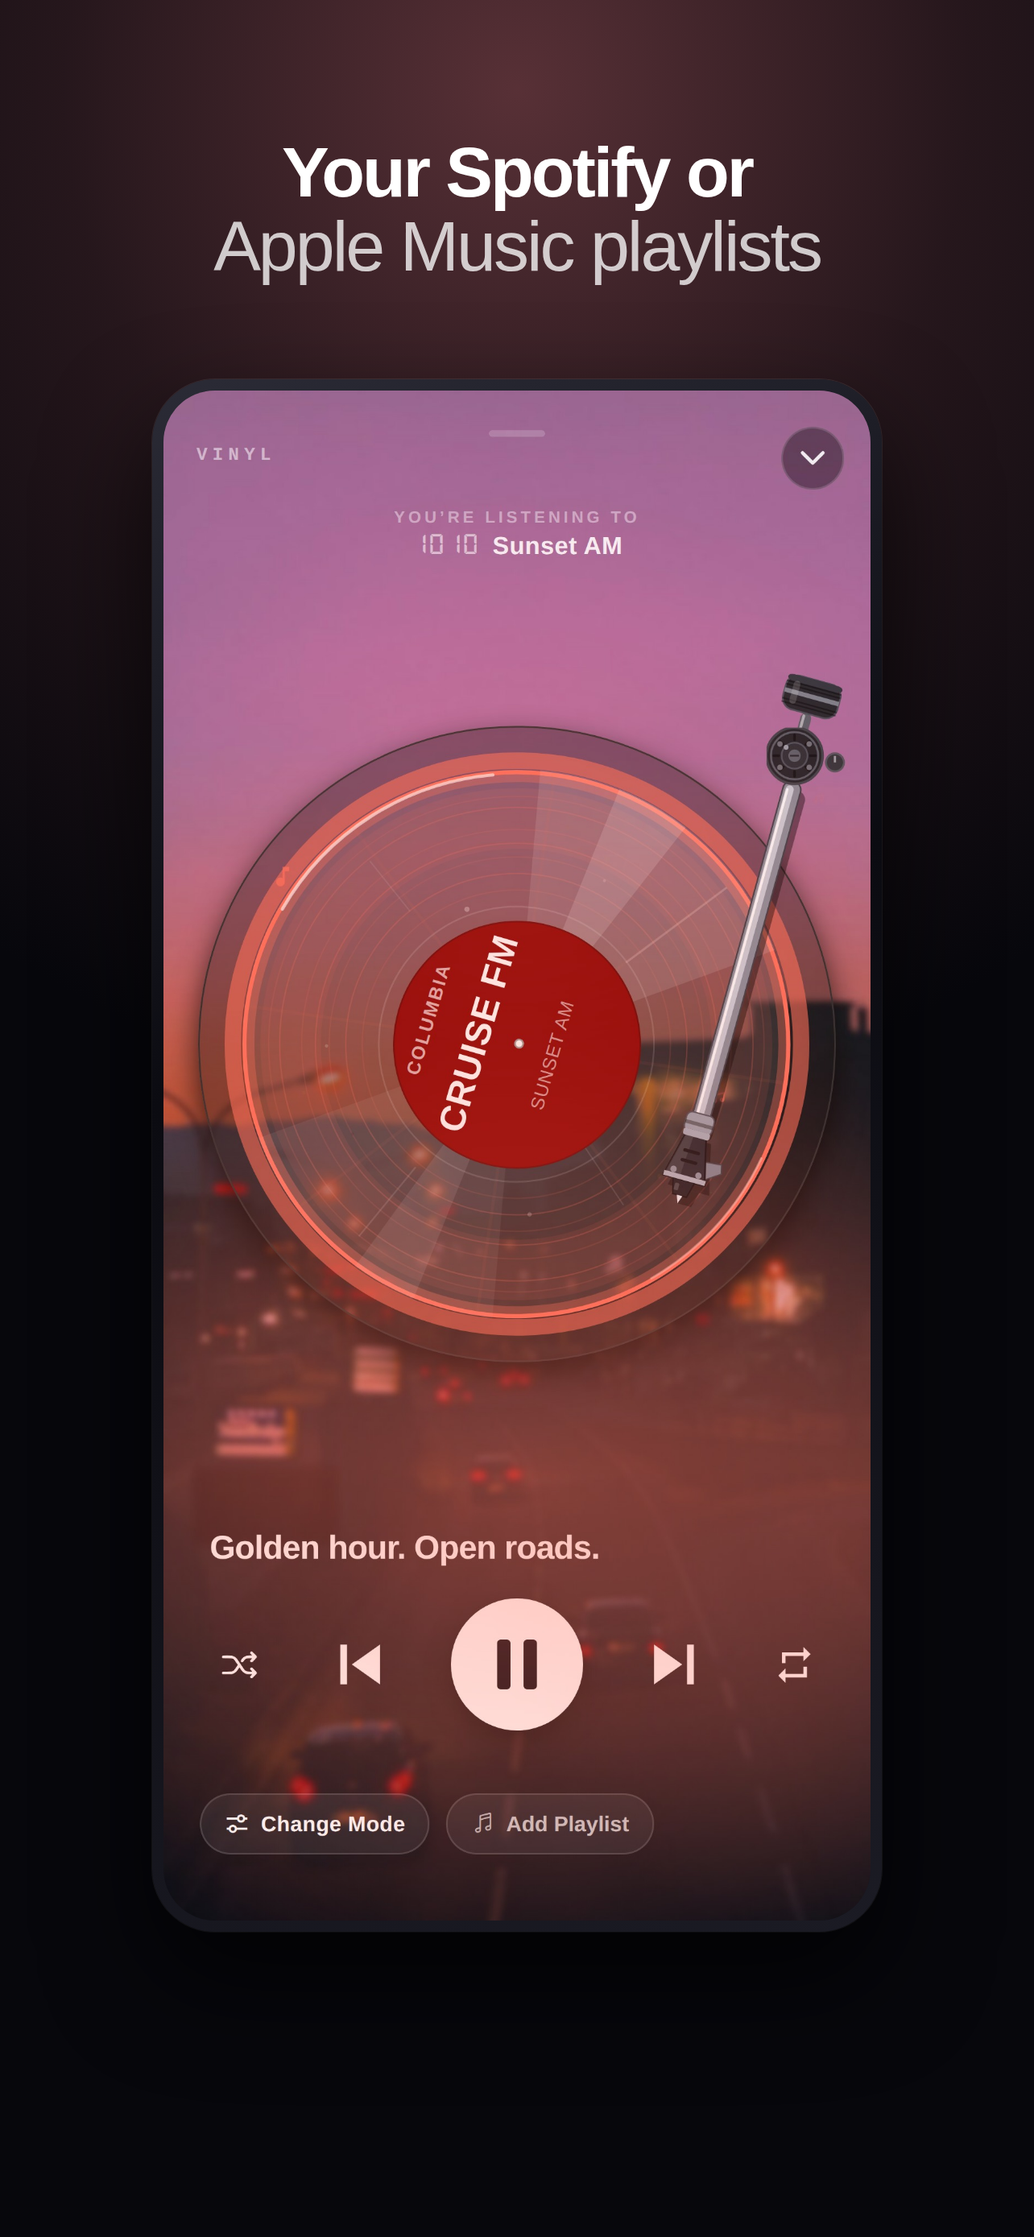
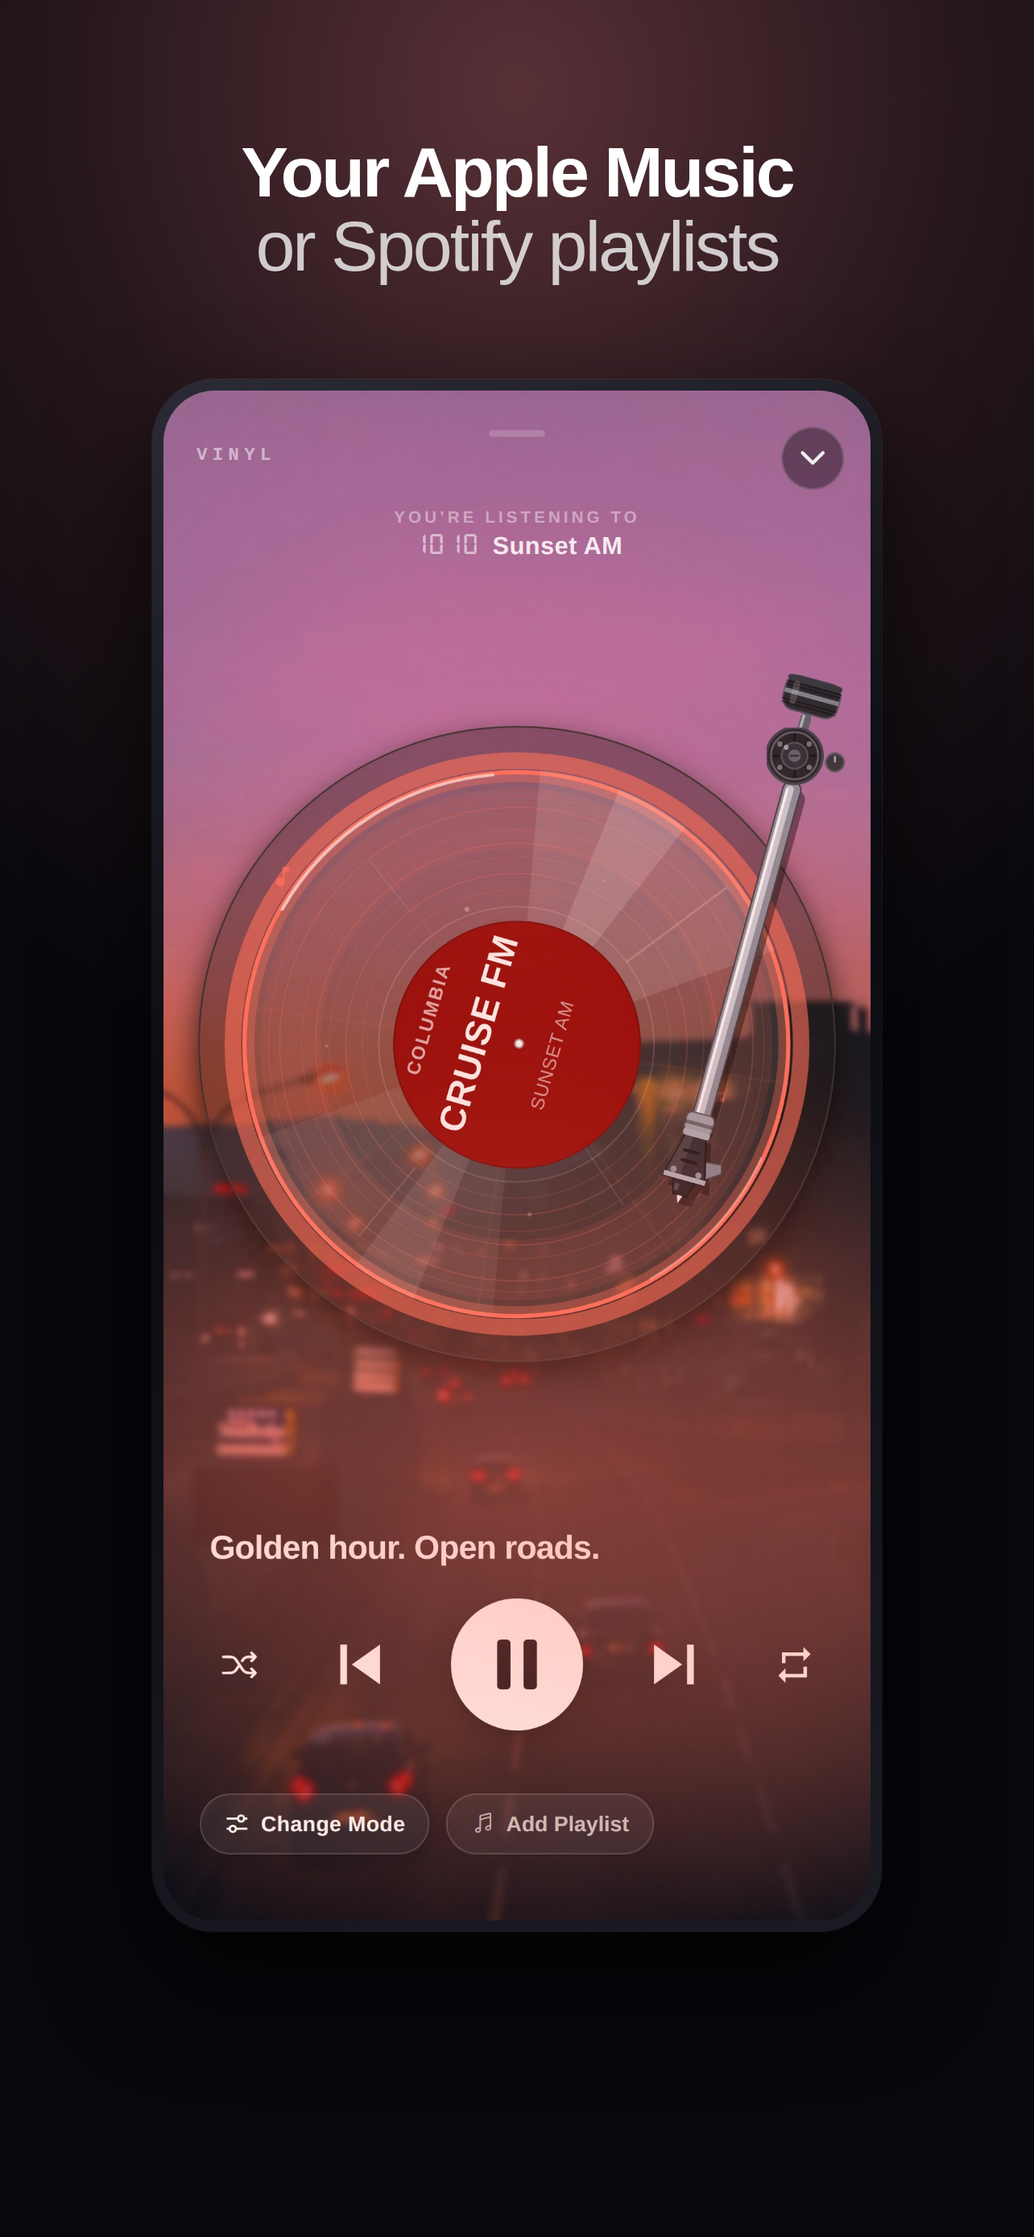
Listing: Apple-first description, and a share-card slide that shows the Y2K one
The "your own photo" slide was distorted — the temporary stub that stands in
for the photo picker declared 1600x1067 for a file that is really 1080x1620,
and the framing sheet lays the image out at those numbers under contentFit
"fill". Re-shot at the true size.

The share-card slide now shows two cards, Y2K in front and Ticket tilted
behind, so it reads as "styles" without needing the word. Both are rendered
from the shipping components rather than photographed on a phone: the old raw
screenshot was the share sheet, which reads as a menu, and it printed
cruisefm.app — a domain that was never registered.

Description leads with Apple Music. This is an iOS-only app and Spotify's
developer tier caps full in-app control at five accounts, so opening with
Spotify was selling the thing most readers cannot have. Spotify is still named
in the same places, one step later.

Two small fixes in the Y2K card itself while rendering it: with no album art it
falls back to the station's own photograph instead of a flat tinted square, and
the scrub bar sits at zero rather than a decorative 42% beside two 0:00s.

Changed region(s): [[0.2181, 0.0619, 0.81, 0.1238]]

diff --git a/src/components/ShareCardStyles.tsx b/src/components/ShareCardStyles.tsx
@@ -837,7 +837,10 @@ function Y2KStyle(p: StyleProps) {
   // The two seven-segment wells are 168 wide with a 52 margin, so the
   // trough starts clear of them on both sides.
   const barX = WX + 196, barW = WW - 196 - 196;
-  const pct = track?.durationMs ? Math.min(1, (track.progressMs ?? 0) / track.durationMs) : 0.42;
+  // Zero when there is no track, not a decorative 0.42 — the times either side
+  // read 0:00 in that case, and a bar sitting 42% along beside them says two
+  // different things at once.
+  const pct = track?.durationMs ? Math.min(1, (track.progressMs ?? 0) / track.durationMs) : 0;
 
   const btn = (i: number) => panelX + i * 76;
 
@@ -867,7 +870,25 @@ function Y2KStyle(p: StyleProps) {
       <Bevel x={artX - 10} y={artY - 10} w={ART + 20} h={ART + 20} sunken face="#6b6b6b" e={4} />
       {d.art
         ? <SvgImage x={artX} y={artY} width={ART} height={ART} href={{ uri: d.art }} preserveAspectRatio="xMidYMid slice" />
-        : <Rect x={artX} y={artY} width={ART} height={ART} fill={mixHex(d.eq[1], '#20202a', 0.55)} />}
+        : (
+          /* No cover — companion listeners have no track at all, and a cover
+             can be a moment late even when there is one. A flat tinted square
+             is the one thing in this well that reads as a bug rather than a
+             design, so it falls back to the STATION'S OWN PHOTOGRAPH, which is
+             what the card is about anyway. Under a wash, or a bright picture
+             fights the grey chrome around it. Custom stations may still have
+             no picture, and those keep the tint. */
+          <>
+            <Rect x={artX} y={artY} width={ART} height={ART} fill={mixHex(d.eq[1], '#20202a', 0.55)} />
+            {!!d.backdrop && (
+              <>
+                <SvgImage x={artX} y={artY} width={ART} height={ART} href={d.backdrop as string}
+                  preserveAspectRatio="xMidYMid slice" />
+                <Rect x={artX} y={artY} width={ART} height={ART} fill="#0b0b12" opacity={0.22} />
+              </>
+            )}
+          </>
+        )}
 
       {/* ── the disc ── */}
       {(() => {

diff --git a/scripts/marketing/tints.py b/scripts/marketing/tints.py
@@ -5,8 +5,14 @@ import colorsys, glob, os, json
 
 SHOTS = 'screenshots-appstore'
 out = {}
-for p in sorted(glob.glob(f'{SHOTS}/*.jpg')):
-    im = Image.open(p).convert('RGB').resize((160, 346))
+# The .png entries are the rendered share cards rather than device screenshots,
+# and the rule is the same: the surround is sampled from whatever the slide
+# actually shows. Resize to each file's own shape — squashing a near-square
+# card into a phone's aspect would not change the average, but it would make
+# the next person doubt the numbers.
+for p in sorted(glob.glob(f'{SHOTS}/*.jpg') + glob.glob(f'{SHOTS}/*.png')):
+    src = Image.open(p).convert('RGB')
+    im = src.resize((160, max(1, round(160 * src.height / src.width))))
     wr = wg = wb = wt = 0.0
     for r, g, b in im.getdata():
         h, l, s = colorsys.rgb_to_hls(r / 255, g / 255, b / 255)

diff --git a/AGENTS.md b/AGENTS.md
@@ -309,6 +309,7 @@ The owner does not code — describe changes in plain English, Claude implements
 - NEXT (post-launch): Apple Music support via MusicKit (platform concept already in code); Google ID verification clears → upload build, £1.99 product in Play Console, swap test_ key for goog_ key → closed test (12 testers/14 days); iOS home-screen widgets (owner asked 2026-07-23) — order: Start Drive widget (station-art tile deep-linking into last station/mode) → drive-stats/streak tile → "Tonight's pick" card → Live Activity during drives (lock screen/Dynamic Island, genuinely live). All native (Swift via config plugin, e.g. @bacons/apple-targets), EAS cloud-buildable without a Mac, fresh build per iteration (no OTA). NOTE: live Spotify now-playing in a widget is NOT feasible (no Apple Music-style access + ~15min refresh) — don't promise it
 - DONE 2026-07-26 (ship from the phone): `.github/workflows/ota-update.yml` — a MANUAL GitHub Actions button (`workflow_dispatch` only, never on push, so the owner still decides what ships during launch) that runs `eas update` for a chosen channel. Owner presses it from the GitHub mobile app / browser, no PC needed. REQUIRES a repo secret `EXPO_TOKEN` (expo.dev → Account settings → Access tokens → robot/personal token). Before publishing it asserts EXPO_PUBLIC_SPOTIFY_CLIENT_ID/SECRET exist in that EAS environment — `.env` is gitignored so CI has no local copy, and a bundle published without them would silently break Spotify sign-in for everyone on the channel. Workflow files are NOT a fingerprint source, so adding this did not disturb OTA. STILL PENDING (post-launch): making it fire automatically on every push.
 - APP STORE SCREENSHOTS ARE NOW MARKETING SLIDES 2026-08-08 (owner, after seeing TinySong/Hayu listings: "how we get the App Store photos like these for free"): the listing used raw screenshots; it now uses captioned slides built here, no tool and no subscription. `scripts/marketing/build-slides.mjs` reads `screenshots-appstore/*.jpg` and writes `screenshots-marketing/*.png` at Apple's 6.5" size (1284x2778) via HTML + Chromium. THREE LAYOUTS, and the split is the owner's pick after comparing four directions side by side: slide 1 is **B** — the screenshot full-bleed with the headline over it, because the first slide has to stop a thumb and that is the biggest picture available; slides 2-9 are **A** — the phone floating on a glow, which gives the set a calmer rhythm; slide 10 is **CARD** — the share card alone, no phone. TRAP in B: the scrim must be FULLY OPAQUE down past the headline's foot (0% to 15.5%), or the app's own header ghosts through it — the first render had "Downtown FM" sitting inside the H1. TINTS ARE SAMPLED, NEVER PICKED: `scripts/marketing/tints.py` weights each screenshot's pixels by `saturation x luminance` and lands every result at one fixed lightness/saturation, so the surround belongs to its own picture but the ten slides still read as one set. Re-run it after ANY screenshot change — the stations reshoot below flipped that slide from teal to amber, which is correct because the new picture is the dial rather than the mountain. TWO THINGS THE RENDER CAUGHT: the raw share screenshot is the share SHEET (six buttons and a Cancel) and reads as a menu, so slide 10 crops the card out of it by measured pixel box (`CARD_BOX`, found by thresholding the bright block — the crop is done in CSS so the script needs no image library); and the stations screenshot was scrolled to the top, which sliced the last row against the screen's bottom edge — `scripts/marketing/stations-shot.mjs` re-shoots it at MAX scroll, which shows all ten stations, both bands and the red tuned marker, so the "Ten moods. Not ten genres." headline is proved by its own picture. `screenshots-appstore/03-stations-dial.jpg` was replaced with that reshoot. TYPEFACE IS A STAND-IN: this machine only has Liberation Sans (the free Helvetica clone). Drop a real font in and point the stack at it. NOT YET UPLOADED — these ship with version 1.2.0's listing update.
+- THE LISTING TURNS APPLE-FIRST, AND THE CARD SLIDE STOPS BEING A SCREENSHOT 2026-08-12 (listing only, no app change beyond one share-card fallback). Three things, all off the owner. (1) **DESCRIPTION IS APPLE-FIRST** — "can we change the description to focus more on Apple users". It opened "Spotify organises music by artist" and put Apple Music second throughout, which is backwards twice over: this is an iOS-only app, so every reader is already in Apple's world, and Apple Music is the platform where Cruise FM actually works for everyone — Spotify's developer tier caps full in-app control at FIVE accounts, so for almost every reader "connect Spotify" means the visual layer and nothing else. Leading with Spotify was selling the thing most people cannot have. Spotify is still named in the same three places, one step later; nothing was dropped and nothing overclaims. Same swap on the vinyl slide's caption. Promotional text refreshed for 1.3.0 — that is the ONE field editable with no review, so it is where the newest thing belongs. (2) **A STUB'S DECLARED DIMENSIONS ARE LOAD-BEARING**: the 1.3.0 "your own photo" slide shipped visibly stretched (owner: "that's stretched funny -- i wouldn't use it") because the temporary `choosePhoto` stub declared 1600x1067 for a file that is really 1080x1620. `PhotoFrameSheet` lays the image out at those numbers under `contentFit="fill"`, so the portrait photo was force-fitted into a landscape box — the harness distorted it, not the app. Re-shot with the true size. RULE: a stub that stands in for a native module must carry the real asset's real metadata, or the screenshot is testing the stub. (3) **THE SHARE-CARD SLIDE IS NOW RENDERED, NOT SHOT** (owner: "id like to have the y2k share card option displayed on the preview cards"). New `CARDS` layout in build-slides.mjs shows the Y2K card in front with the Ticket tilted behind it, so the slide says "styles, plural" with no word for it. Both come from `scratchpad/share/render.js` against the SHIPPING components (`NO_ART=1 NO_SNAP=1`) rather than from a device, which fixes two stale things at once: the old raw screenshot was the share SHEET (six buttons and a Cancel — reads as a menu) and it printed `cruisefm.app`, the domain that was never registered. tints.py now samples `.png` as well as `.jpg` so the surround is still measured rather than picked. The old `CARD` layout and its hand-measured crop box are deleted. (4) FOUND DOING IT, and it ships in the app: the Y2K card's no-cover fallback was a flat tinted square — the state every companion-mode listener sees, and the one thing on that card that reads as a bug. It now falls back to the STATION'S OWN PHOTOGRAPH under a 0.22 wash (custom stations with no picture keep the tint), and the scrub bar's decorative `pct = 0.42` is 0, because the times either side read 0:00 and a bar sitting 42% along beside them says two different things at once.
 - BUILD 24 (1.2.0) FAILED, AND A FAILED BUILD LOOKS EXACTLY LIKE ONE THAT NEVER RAN 2026-08-08 (owner: "its not updated on test flight"). Two separate things, and the first is the reusable lesson. (1) THE INSTRUMENT WAS LYING BY OMISSION: `eas build:list` reported build 24 as `Status errored` and nothing else, so the first read of it was "the workflow never submits, that's why TestFlight is empty" — true, but not the cause. The workflow's diagnose mode now prints the newest iOS build's status AND its `error` object (`eas build:list --limit 1 --json`), because a status word alone cannot distinguish "failed" from "never started" and both present to the owner as an empty TestFlight. (2) ROOT CAUSE: `expo-notifications` applies its own iOS config plugin AUTOMATICALLY — it is in package.json, so Expo picks it up without being named in `plugins` — and that plugin sets `aps-environment` unconditionally (node_modules/expo-notifications/plugin/build/withNotificationsIOS.js). That entitlement is for REMOTE push and needs the Push Notifications capability on the Apple app ID; ours has never had it, so Xcode refused the profile. Cruise FM's notifications are entirely LOCAL, which needs no entitlement at all, so the fix is `plugins/withoutPushEntitlement.js` — a four-line plugin that deletes the key, listed LAST in app.json because auto-applied plugins run before the ones you name. Enabling the capability instead was rejected: it means an Apple-side change, a new provisioning profile, and a push capability advertised for a feature that does not exist. Verified with `npx expo config --type introspect --json`: entitlements now `{}`. THE SAME FAMILY AS THE 2.5.4 REJECTION (29.07, expo-audio injecting UIBackgroundModes) — an Expo plugin can add native keys you never wrote, and the only way to know is to read the RESOLVED config. (3) SEPARATELY, AND ALSO REAL: a finished EAS build is NOT a TestFlight build. EAS builds the binary and stops; App Store Connect never hears about it until something submits it, and TestFlight only lists what App Store Connect has. `build` mode now passes `--auto-submit-with-profile`, and there is a `submit` mode for a finished build that was never sent.
 - `--auto-submit` NEEDS `ascAppId` IN eas.json 2026-08-08: the first build with auto-submit uploaded fine, queued the build, and THEN exited 1 with "Set ascAppId in the submit profile (eas.json) or re-run this command in interactive mode. / Submission failed / Error: build command failed." Non-interactive eas-cli cannot look the App Store Connect app id up for itself. Both submit profiles now carry `"ios": {"ascAppId": "6793233679"}` — the number is the one in the App Store URL, apps.apple.com/app/id6793233679. READ THAT FAILURE CAREFULLY IF IT RECURS: the BUILD is unaffected and keeps running on EAS (it is already uploaded by then), so a red workflow run here does NOT mean there is no build — only that it will not submit itself. Note also this is exactly the sort of eas.json edit that used to be a fresh-build trap; since the runtime version was pinned on 30.07 it is not, so editing submit config is free.
 - BUILD 25 CRASHED 40 ms INTO LAUNCH — A NATIVE MODULE NEWER THAN THE SDK'S CORE 2026-08-08 (owner: "every time I try opening the app it keep crashing"). SOLVED FROM THE .ips ALONE, and the method is the point. FIRST the timing, which reframed the whole search before any theory: `procExitAbsTime - procStartAbsTime` was 6.48M ticks on the first attempt and ~0.9-1.1M on the four retries, and at the 125/3 ns timebase that is ~270 ms then ~40 ms — i.e. the process died BEFORE the JS bundle ran, which instantly rules out every line of app code AND rules out fixing it over the air. `procRole` was **Foreground**, the case the 27.07 entry says to chase (the backgrounded 309s are ordinary reclamation). THEN the `termination` block named it outright: `namespace DYLD, indicator "Symbol missing", Symbol not found: _$s15ExpoModulesCore6RecordPAAE4from10dictionary10appContextxSDySSypG_AA03AppH0CtKFZ` — demangled, `Record.from(dictionary:appContext:)` — `Referenced from: ExpoMediaLibrary.framework`, `Expected in: ExpoModulesCore.framework`. Confirmed against the sources here: core 56.0.15 has `Record.convert(from:appContext:)` and NOT `from(dictionary:appContext:)`, so expo-media-library 56.0.10 was compiled against a newer core than SDK 56 ships. THE TRAP, and why no check would have caught it: `bundledNativeModules.json` publishes `expo-media-library: ~56.0.6` for SDK 56, and **56.0.10 satisfies that range**, so `expo install --check`/expo-doctor pass happily; `npm install expo-media-library@~56.0.6` also resolves to 56.0.10. The linker is happy too — only dyld on the device fails. FIX: the three modules added for 1.2.0 are now pinned EXACTLY, no tilde — expo-media-library 56.0.6 (the SDK's own version), expo-notifications 56.0.16 (was 56.0.23, seven patches beyond the bundled line and unproven; dyld stops at the first missing symbol so it may well have been next), expo-sharing 56.0.23 (kept, because build 23 is in the App Store running it against this same core — proven; an accidental bump to 56.0.24 during this round was reverted). RULE now in docs/launch/pre-submission-checklist.md: any build that adds or changes a native module must be LAUNCHED on a real phone before it goes near Apple — a launch, not a lint, precisely because no static check can see this class of fault. Also: expo-modules-core is pinned by `expo` itself, so the answer is to move the module down, never to move core up.

diff --git a/docs/launch/app-store-listing.md b/docs/launch/app-store-listing.md
@@ -23,10 +23,12 @@ time with no review at all.
 
 ## Promotional text (170 characters — editable any time, no review)
 
-> Apple Music and Spotify both play inside Cruise FM now, with the controls on
-> the card. Ten mood stations, eight full-screen modes, all free.
+> New: put your own photo behind a station you made. Apple Music plays inside
+> Cruise FM with the controls on the card. Ten moods, eight modes, all free.
 
-(146 characters.)
+(150 characters.) Refreshed 12.08 for 1.3.0. This is the one field that can be
+edited at any time with **no review**, so it is the right place to lead with
+whatever shipped most recently.
 
 ## Keywords (100 characters, comma-separated, no spaces after commas)
 
@@ -75,16 +77,33 @@ rather than submitting for it alone.
 
 ## Description (max 4000 characters)
 
-> Spotify organises music by artist. Cruise FM organises it by how a drive feels.
+Rewritten 12.08 at the owner's request — "can we change the description to
+focus more on Apple users." It was Spotify-first from the opening line down,
+which is backwards on two counts: this is an **iOS-only app**, so everyone
+reading it is already in Apple's world; and Apple Music is the platform where
+Cruise FM actually works properly for everyone. Spotify's developer tier caps
+us at **five** accounts with full in-app control, so for almost every reader
+"connect Spotify" means the visual layer and nothing more, while any Apple
+Music subscriber gets the whole thing. Leading with Spotify was selling the
+thing most people cannot have.
+
+Nothing has been dropped — Spotify is still named in the same three places,
+just second. And nothing overclaims: the fifth paragraph still says plainly
+what happens without a subscription.
+
+> Cruise FM turns your iPhone into the dashboard your music deserves.
 >
-> Pick a mood station, tap Start Drive, and your dashboard becomes the film your
-> music deserves.
+> Apple organises music by artist. Cruise FM organises it by how a drive feels.
+> Pick a mood station, tap Start Drive, and the screen becomes a cassette deck,
+> a turning record, a mirror ball scattering light around the car.
 >
-> YOUR MUSIC, YOUR ACCOUNT
-> Connect Apple Music or Spotify and play your own playlists with full control
-> inside Cruise FM — play, pause, skip, scrub the track, pick a song from the
-> queue. Listening on something else? Press play in your own app and Cruise FM
-> runs the visuals alongside it.
+> BUILT FOR APPLE MUSIC
+> Connect Apple Music and play your own playlists with full control inside
+> Cruise FM — play, pause, skip, scrub the track, pick a song from the queue.
+> Album art lands on the record and the disc. Your Music app keeps the lock
+> screen and CarPlay controls, exactly as it should. Spotify Premium works the
+> same way; on anything else, press play in your own app and Cruise FM runs the
+> visuals alongside it.
 >
 > TEN MOOD STATIONS
 > Night Run. Sunset. Daylight. Rain Drive. Coastal. Mountain Pass. After Hours.
@@ -117,7 +136,8 @@ rather than submitting for it alone.
 > Cruise FM controls your own Apple Music or Spotify app — it does not stream,
 > download or store any music itself. Full in-app playback needs an Apple Music
 > subscription or Spotify Premium; without either, Cruise FM runs as the visual
-> layer while you play music in your own app.
+> layer while you play music in your own app. Nothing about you leaves your
+> phone: no account, no sign-up, no tracking.
 >
 > Please don't watch the screen while you're driving. That's what passengers
 > are for.
